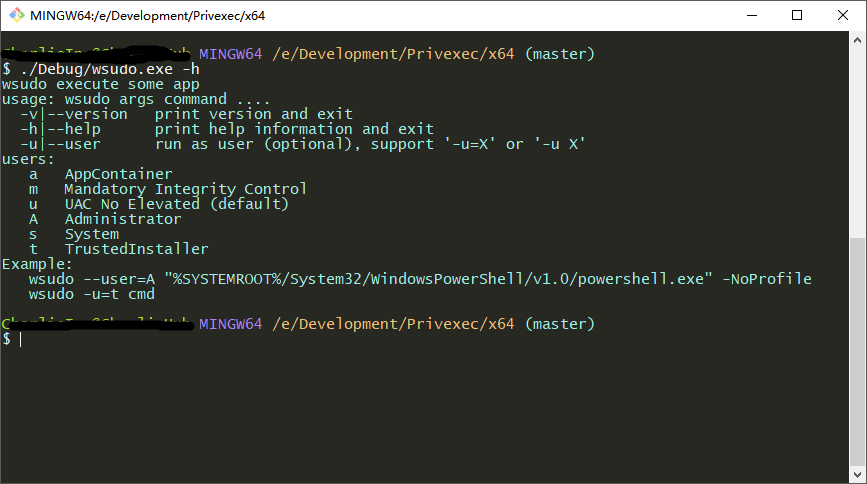
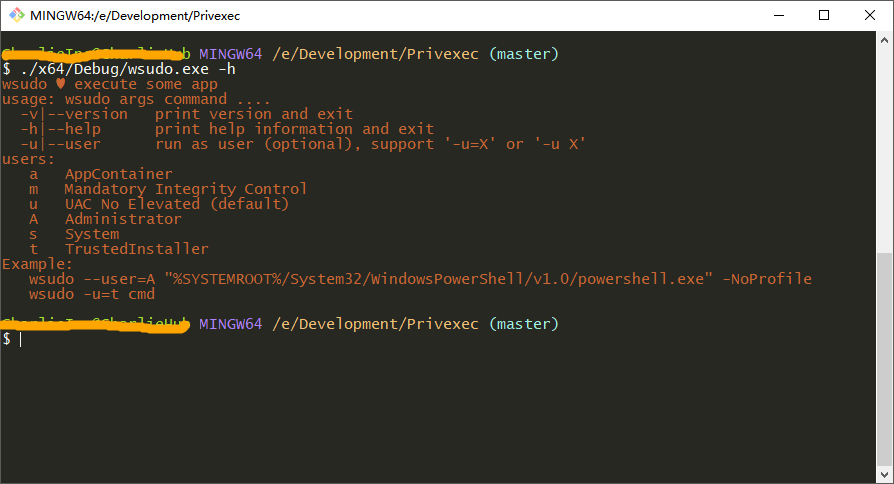
fix PrintConsole

diff --git a/Privexec.Console/Privexec.Console.cpp b/Privexec.Console/Privexec.Console.cpp
@@ -2,6 +2,7 @@
 #include "Privexec.Console.hpp"
 #include <unordered_map>
 
+namespace console {
 std::string wchar2utf8(const wchar_t *buf, size_t len) {
   std::string str;
   auto N = WideCharToMultiByte(CP_UTF8, 0, buf, (int)len, nullptr, 0, nullptr,
@@ -87,10 +88,10 @@ bool TerminalsConvertColor(int color, TerminalsColorTable &co) {
   return true;
 }
 
-int WriteConsoleInternal(const wchar_t *buffer, DWORD len) {
+int WriteConsoleInternal(const wchar_t *buffer, size_t len) {
   DWORD dwWrite = 0;
   auto hConsole = GetStdHandle(STD_OUTPUT_HANDLE);
-  if (WriteConsoleW(hConsole, buffer, len, &dwWrite, nullptr)) {
+  if (WriteConsoleW(hConsole, buffer, (DWORD)len, &dwWrite, nullptr)) {
     return static_cast<int>(dwWrite);
   }
   return 0;
@@ -118,7 +119,7 @@ int WriteTerminals(int color, const wchar_t *data, size_t len) {
 int WriteVTConsole(int color, const wchar_t *data, size_t len) {
   TerminalsColorTable co;
   if (!TerminalsConvertColor(color, co)) {
-    return WriteConsoleInternal(data, (DWORD)len);
+    return WriteConsoleInternal(data, len);
   }
   std::wstring buf(L"\x1b[");
   if (co.blod) {
@@ -203,7 +204,6 @@ private:
   int (*impl)(int color, const wchar_t *data, size_t len);
 };
 
-namespace console {
 bool EnableVTMode() {
   // Set output mode to handle virtual terminal sequences
   HANDLE hOut = GetStdHandle(STD_OUTPUT_HANDLE);

diff --git a/wsudo/wsudo.cpp b/wsudo/wsudo.cpp
@@ -132,7 +132,7 @@ int SearchUser(const wchar_t *user) {
   return -1;
 }
 
-const wchar_t *kUsage = LR"(wsudo execute some app
+const wchar_t *kUsage = LR"(execute some app
 usage: wsudo args command ....
   -v|--version   print version and exit
   -h|--help      print help information and exit
@@ -161,7 +161,7 @@ int wmain(int argc, const wchar_t *argv[]) {
     return 0;
   }
   if (IsArg(Arg, L"-h", L"--help")) {
-    console::Print(console::fc::Cyan, L"%s", kUsage);
+    console::Print(console::fc::Cyan, L"wsudo \x2665 %s", kUsage);
     return 0;
   }
   int index = 1;

diff --git a/Privexec.Console/Privexec.Console.hpp b/Privexec.Console/Privexec.Console.hpp
@@ -56,7 +56,7 @@ enum Color : WORD {
 }
 
 bool EnableVTMode();
-int WriteConsoleInternal(const wchar_t *buffer, DWORD len);
+int WriteConsoleInternal(const wchar_t *buffer, size_t len);
 int WriteInternal(int color, const wchar_t *buf, size_t len);
 
 template <typename T> T Argument(T value) noexcept { return value; }

diff --git a/ReadMe.md b/ReadMe.md
@@ -49,6 +49,8 @@ wsudo:
 
 ![wsudo2](images/wsudo2.png)
 
+![wsudo3](images/wsudo3.png)
+
 ## LICENSE
 
 This project use MIT License, and JSON use [https://github.com/nlohmann/json](https://github.com/nlohmann/json) , some API use NSudo.
